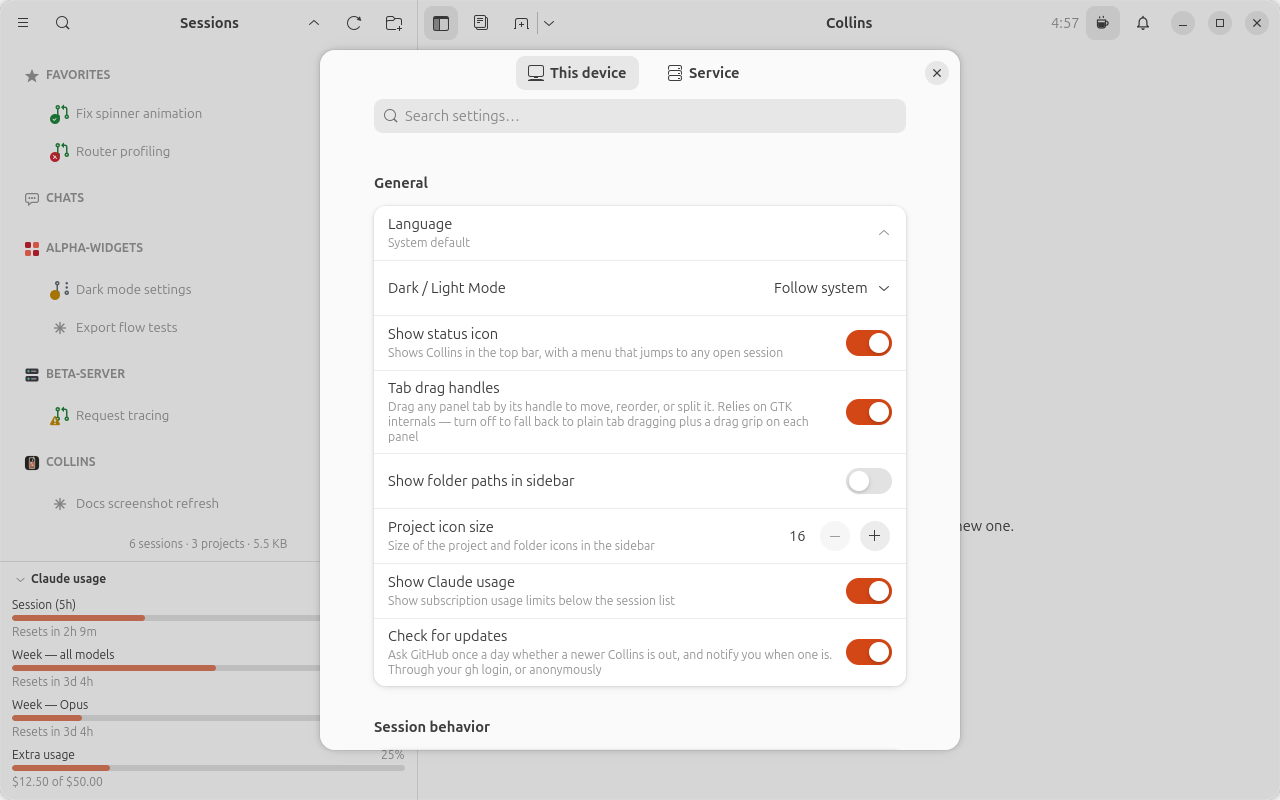
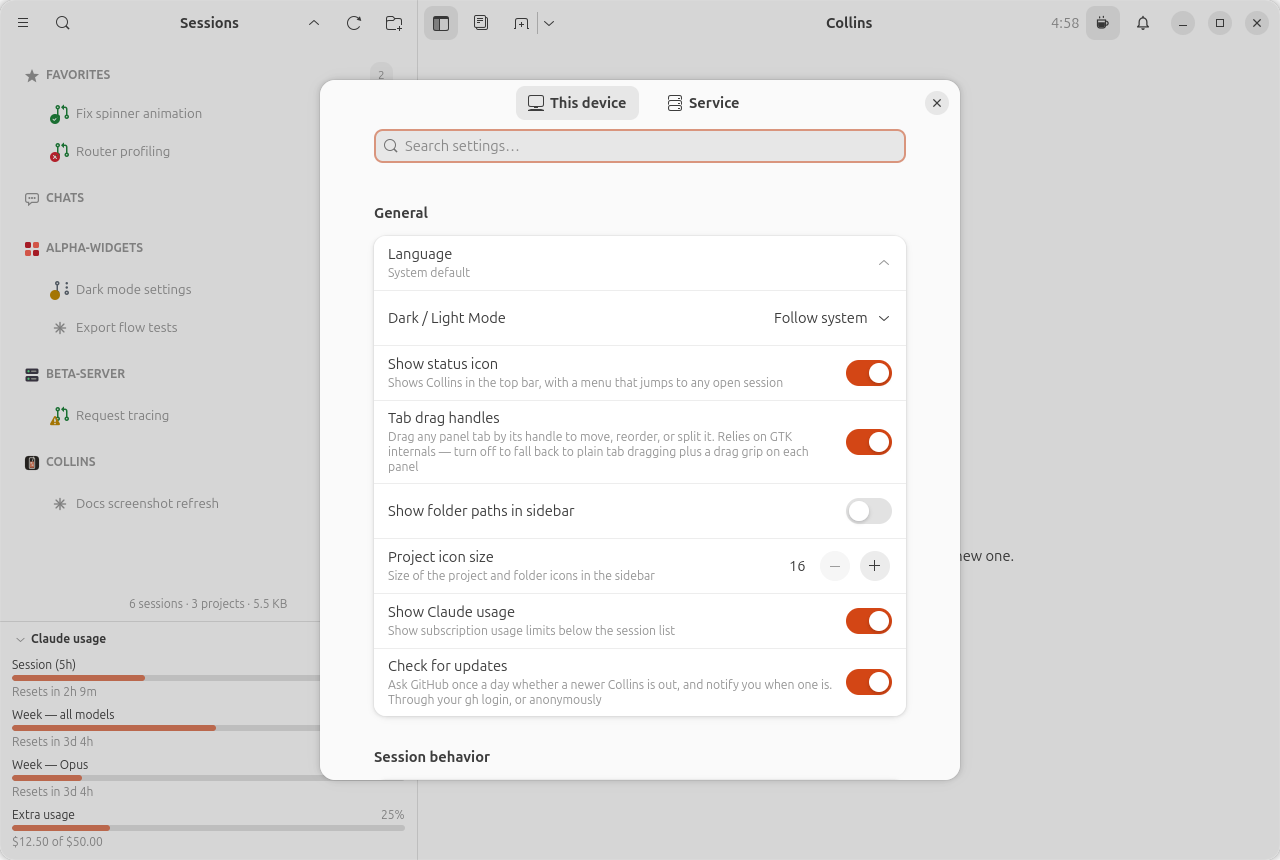
Preferences: the search box has the focus, the host is escaped, review fixes (PR-3.3)
The view switcher's buttons come first in the focus chain, so the dialog
names the search box as its focus (it opened with a button focused and
typing did nothing). The hello's host reaches the Service page's
description, which is Pango markup: escaped now. Both are pinned in
check_token_use_prefs.py, the host by patching apilink.service_host.

docs/public/img/preferences.png is re-captured at 1280x860: capture-docs.py
wrote the window's size (a device setting) to state.json, where it has
been ignored since the state split, so every shot came out at the default
1280x800; --size and --set now write each key to the file its side reads.

Also a blank line before page_groups, the release note's wording and the
how-it-works paragraph's wrapping.

Claude-Session: https://claude.ai/code/session_01ATZ91mn8D5H98bakMm3ZZW

diff --git a/scripts/check_token_use_prefs.py b/scripts/check_token_use_prefs.py
@@ -77,9 +77,9 @@ gi.require_version("Gtk", "4.0")
 gi.require_version("Adw", "1")
 gi.require_version("Vte", "3.91")
 import e2e_service  # noqa: E402
-from gi.repository import Adw, GLib  # noqa: E402
+from gi.repository import Adw, GLib, Gtk  # noqa: E402
 
-from collins import claudemodels, i18n, mcptools, prefslayout  # noqa: E402
+from collins import apilink, claudemodels, i18n, mcptools, prefslayout  # noqa: E402
 from collins.app import App  # noqa: E402
 from collins.prefs import PreferencesDialog  # noqa: E402
 from collins.state import SERVICE_SETTINGS, AppState  # noqa: E402
@@ -184,10 +184,49 @@ def stage() -> bool:
     return later(step_layout)
 
 
+def labels_under(widget):
+    child = widget.get_first_child()
+    while child is not None:
+        if isinstance(child, Gtk.Label):
+            yield child
+        yield from labels_under(child)
+        child = child.get_next_sibling()
+
+
+def step_host_markup(win) -> None:
+    """The hello's host is a remote machine's word and the page's
+    description is Pango markup (rule 5): a host with markup characters is
+    shown as it is, not parsed. Patched here, in the client's own process."""
+    real = apilink.service_host
+    apilink.service_host = lambda: "a&b<c>"
+    try:
+        other = PreferencesDialog(win.state, lambda: None)
+    finally:
+        apilink.service_host = real
+    page = other._service_page
+    check(
+        "the service page's description carries the host escaped",
+        page.get_description() == "The Collins service on a&amp;b&lt;c&gt;",
+        page.get_description(),
+    )
+    shown = [lb.get_text() for lb in labels_under(page) if lb.get_text().startswith("The Collins service")]
+    check("and its label shows the host verbatim", shown == ["The Collins service on a&b<c>"], shown)
+
+
 def step_layout() -> bool:
     dialog = state["dialog"]
     device, service = dialog._device_page, dialog._service_page
     check("the dialog opens on This device", dialog._view_stack.get_visible_child() is device)
+    # The view switcher's buttons come first in the focus chain: the dialog
+    # names the search box as its focus, so typing after opening searches.
+    # (The focus sits on the entry's inner text widget, its editable.)
+    focus = dialog.get_focus()
+    check(
+        "the search box has the focus",
+        focus is not None and (focus is dialog._search_entry or focus.is_ancestor(dialog._search_entry)),
+        focus,
+    )
+    step_host_markup(state["win"])
     for side, page in (("device", device), ("service", service)):
         headings = [g.get_title() or "" for g in page.groups]
         check(
@@ -257,6 +296,8 @@ def step_pin() -> bool:
                 continue
             for row in group.rows:
                 settings = getattr(row, "settings", None)
+                # _SearchableGroup.add is the only way onto a page, so this
+                # cannot fire today; it guards a future bypass of it.
                 if settings is None:
                     problems.append(f"{name}/{half_side}: a row with no settings tag")
                     continue

diff --git a/.agents/capture-screenshots/scripts/capture-docs.py b/.agents/capture-screenshots/scripts/capture-docs.py
@@ -87,18 +87,37 @@ if args.scene not in SCENES:
 
 
 def edit_settings() -> None:
-    path = os.path.join(os.environ["XDG_CONFIG_HOME"], "collins", "state.json")
+    # A setting lives in one of two files since the state split: the
+    # service's in state.json, this device's (the window's size among them)
+    # in ui-state.json. --size and --set write each where the app reads it.
+    sys.path.insert(0, args.repo_root)
+    from collins.state import DEVICE_SETTINGS
+
+    config = os.path.join(os.environ["XDG_CONFIG_HOME"], "collins")
+    path = os.path.join(config, "state.json")
     with open(path, encoding="utf-8") as fh:
         data = json.load(fh)
     settings = data.setdefault("settings", {})
+    ui_path = os.path.join(config, "ui-state.json")
+    try:
+        with open(ui_path, encoding="utf-8") as fh:
+            ui = json.load(fh)
+    except (OSError, ValueError):
+        ui = {}
+    device = ui.setdefault("device", {}).setdefault("settings", {})
+    edits: dict = {}
     if args.size:
         w, h = args.size.lower().split("x")
-        settings["window_width"], settings["window_height"] = int(w), int(h)
+        edits["window_width"], edits["window_height"] = int(w), int(h)
     for item in args.set:
         key, _, value = item.partition("=")
-        settings[key] = json.loads(value)
+        edits[key] = json.loads(value)
+    for key, value in edits.items():
+        (device if key in DEVICE_SETTINGS else settings)[key] = value
     with open(path, "w", encoding="utf-8") as fh:
         json.dump(data, fh, indent=2)
+    with open(ui_path, "w", encoding="utf-8") as fh:
+        json.dump(ui, fh, indent=2)
 
 
 edit_settings()

diff --git a/collins/prefs.py b/collins/prefs.py
@@ -321,7 +321,9 @@ class PreferencesDialog(Adw.Dialog):
             title=_("Service"),
             icon_name="network-server-symbolic",
             description=(
-                _("The Collins service on {host}").format(host=host)
+                # The page's description is Pango markup, and the hello's
+                # host is the service's word (a remote machine's): escaped.
+                _("The Collins service on {host}").format(host=GLib.markup_escape_text(host))
                 if host
                 else _("The Collins service")
             ),
@@ -401,10 +403,12 @@ class PreferencesDialog(Adw.Dialog):
         )
         toolbar_view.add_top_bar(header)
         toolbar_view.add_top_bar(search_bar)
-        # The search box is the first focusable widget in the dialog, so
-        # Adw.Dialog hands it the focus on open: preferences opens ready to
-        # type into. _on_search_stopped keeps Escape closing anyway.
+        # Preferences opens ready to type into: the box is named as the
+        # focus, because the view switcher's buttons come first in the focus
+        # chain now and Adw.Dialog would hand one of them the focus.
+        # _on_search_stopped keeps Escape closing anyway.
         self.set_child(toolbar_view)
+        self.set_focus(self._search_entry)
 
     def _build_cli_group(self, state: AppState) -> _SearchableGroup:
         # Above everything on the Service page, under no heading: the CLI is

diff --git a/collins/prefslayout.py b/collins/prefslayout.py
@@ -111,6 +111,7 @@ GROUP_SETTINGS: dict[str, tuple[str, ...]] = {
                "editor_show_hidden_files", "editor_narrow_width", "editor_pop_out_screen_width"),
 }
 
+
 def page_groups(side: str) -> tuple[str, ...]:
     """The groups of one page of the dialog, in GROUPS order: "device" (This
     device) or "service" (Service). A side's own groups and every mixed one,

diff --git a/.agents/capture-screenshots/SKILL.md b/.agents/capture-screenshots/SKILL.md
@@ -160,7 +160,11 @@ alpha-widgets session `$U1`). Adapt it, or hand-roll following these rules:
     welcome dialog — collins/welcome.py — opens over every shot; leave it
     unset only to shoot that dialog), `"title_model": "none"` (otherwise
     the app spawns headless `claude` runs to title your fake sessions);
-    `window_width`/`window_height` size the shot (1100×720 reads well).
+    `window_width`/`window_height` size the shot (1100×720 reads well) —
+    but they are this device's settings, which live in `ui-state.json`
+    (`device.settings`), not here: `capture-docs.py`'s `--size` / `--set`
+    write each key to the file its side reads (a size left in
+    `state.json` gives the default window, 1280×800).
 - Saved panel-terminal history is plain text at
   `state/collins/panel_history/<uuid>.txt`; a session with a file there
   replays it when its tab's panel opens.

diff --git a/docs/guide/how-it-works.md b/docs/guide/how-it-works.md
@@ -265,7 +265,8 @@ renaming it over `state.json`. The headless runs' scratch directory is
 The service keeps its socket, its lock and its local proof in
 `$XDG_RUNTIME_DIR/collins/<app id>/` (`api.sock`, `service.lock`,
 `local-proof`), and which tabs this window had open and which sidebar
-groups it had expanded in `ui-state.json` (`open_tabs`, `expanded_groups`). The terminal panel's per-session scrollback lives in
+groups it had expanded in `ui-state.json` (`open_tabs`,
+`expanded_groups`). The terminal panel's per-session scrollback lives in
 `~/.local/state/collins/panel_history/` (one file per panel tab), and the
 sidebar's Chats project in `~/.local/share/collins/chats/`. Each sandboxed
 session has a box of its own — its `$HOME` inside the sandbox — under

diff --git a/docs/releases.md b/docs/releases.md
@@ -401,7 +401,7 @@ downloads of each version, see the
   the page without any gives way to the one with. A window on a service on
   another machine now shows which of its settings are that machine's.
 - **Which sidebar groups are expanded is this device's.** The fold state
-  used to be kept by the service, so a laptop and a phone's window sharing
+  used to be kept by the service, so a laptop and a desktop window sharing
   one service folded each other's sidebars. It is now kept in this
   device's own file, per service; the first time a device meets a service
   it takes the service's old value, once, so nothing refolds.
